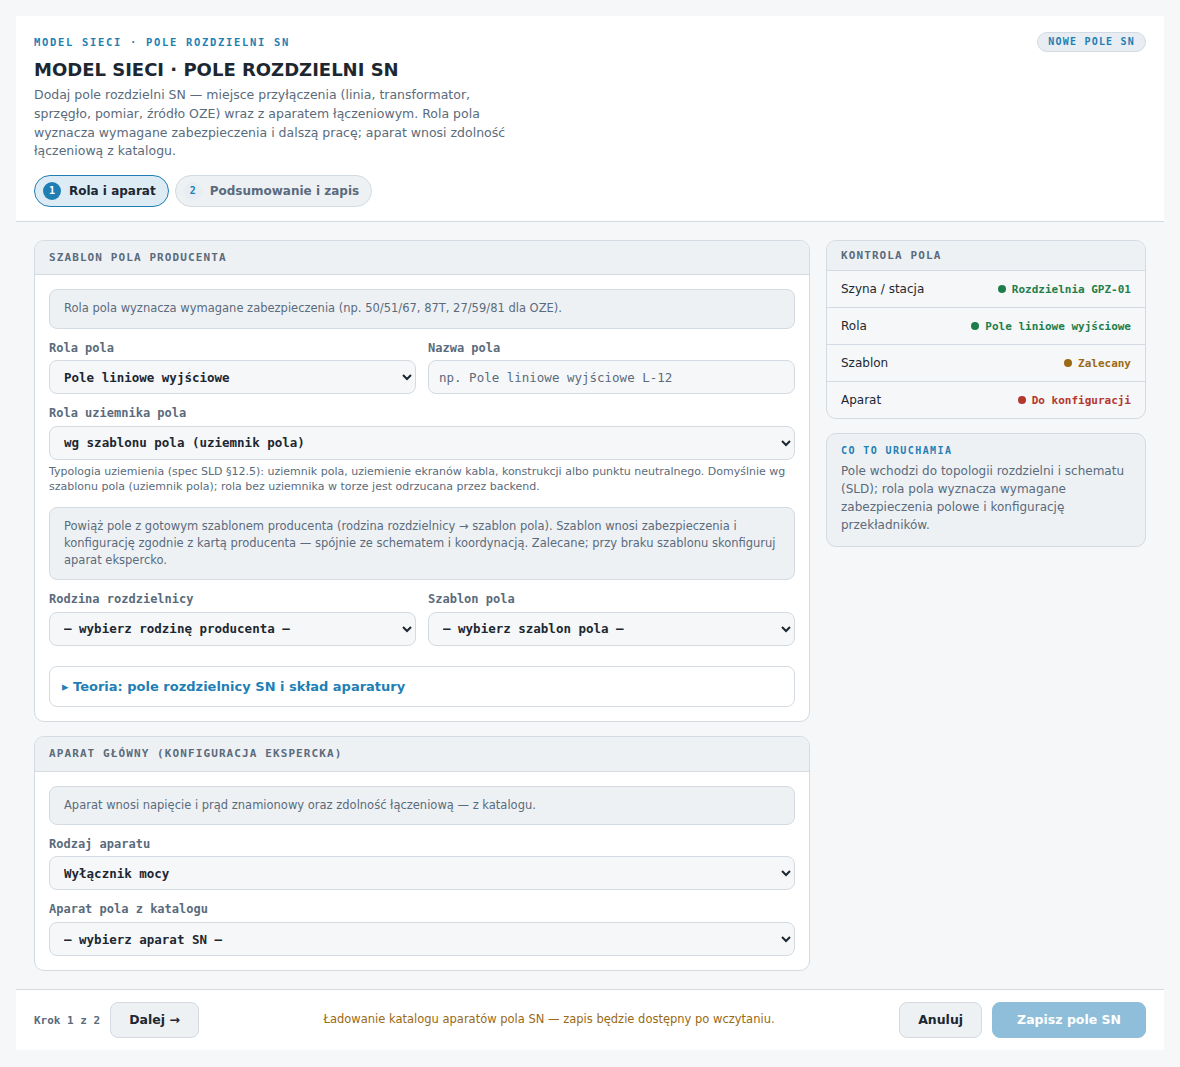
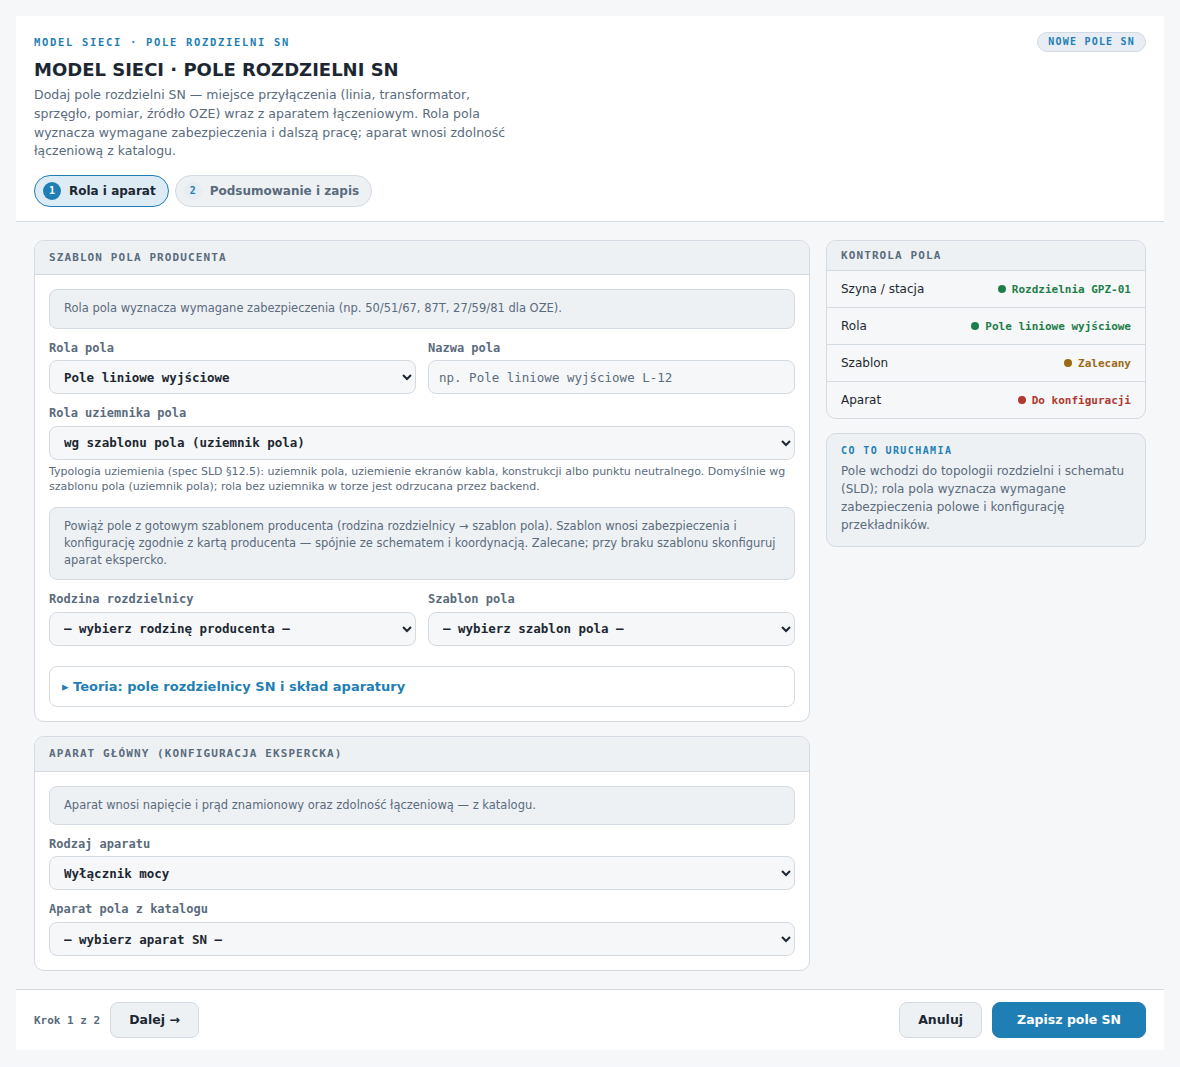
E2E: bramka przed zrzutem czeka na koniec ładowania katalogu w kreatorach
Oględziny zrzutów partii 7 (B-02): `kreatory/kreator_pole_light.png` złapał stopkę
„Ładowanie katalogu aparatów pola SN — zapis będzie dostępny po wczytaniu” z wyszarzonym
„Zapisz pole SN”. Spec czekał tylko na gotowość harnessu + 400 ms; stopkę ładowania ma
dziesięć kreatorów (`KreatorRama`, `data-status="ladowanie"`). Warunek dołożony do
`bramkaTresciMatematycznej` — jedynej funkcji wołanej przed każdym zrzutem (39 speków), więc
naprawa obejmuje klasę, nie jeden spec. Ponowny bieg `creator-screenshot.spec.ts`: 19 passed;
zrzut `kreator_pole_light.png` wrócił do stanu sprzed partii 7 (różnica pikselowa: brak).

Claude-Session: https://claude.ai/code/session_01DdxZDUVdGdBCGrrvHA5N1v

Changed region(s): [[0.8237, 0.9278, 0.9763, 0.9897], [0.2746, 0.9278, 0.4576, 0.9588], [0.4881, 0.9278, 0.6407, 0.9588]]

diff --git a/mv-design-pro/frontend/e2e/trescMatematyczna.ts b/mv-design-pro/frontend/e2e/trescMatematyczna.ts
@@ -72,6 +72,15 @@ export async function naruszeniaTresciMatematycznej(
 
 /** Bramka przed zrzutem: pierwszy plan bez wzorów niewyrenderowanych i bez surowego LaTeX-u. */
 export async function bramkaTresciMatematycznej(page: Page, selektorKorzenia = 'body'): Promise<void> {
+  // Bramka jest JEDYNYM miejscem wołanym przed każdym zrzutem (39 speków), więc niesie też
+  // warunek stanu ekranu: żaden kreator nie jest w stanie „ładowanie” katalogu. Partia
+  // integracji 7: `kreator_pole_light.png` złapał stopkę „Ładowanie katalogu aparatów pola SN”
+  // z wyszarzonym zapisem — spec czekał tylko na gotowość harnessu + 400 ms, a stopkę
+  // ładowania ma dziesięć kreatorów (`KreatorRama`, `data-status="ladowanie"`).
+  await expect(
+    page.locator(`${selektorKorzenia} [data-status="ladowanie"]`),
+    'kreator w stanie ładowania katalogu w chwili zrzutu',
+  ).toHaveCount(0, { timeout: 15000 });
   const naruszenia = await naruszeniaTresciMatematycznej(page, selektorKorzenia);
   expect(naruszenia, 'treść matematyczna pierwszego planu (wzór przez KaTeX, nie jako kod)').toEqual(
     [],
